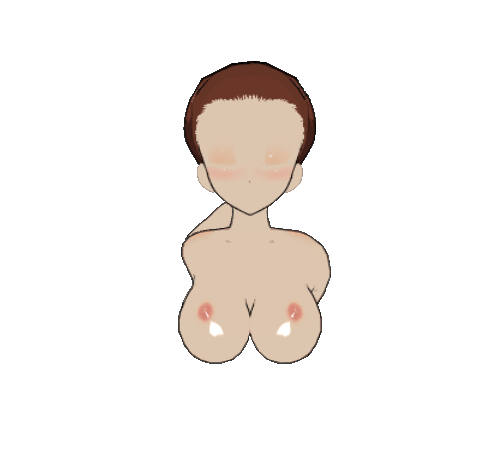
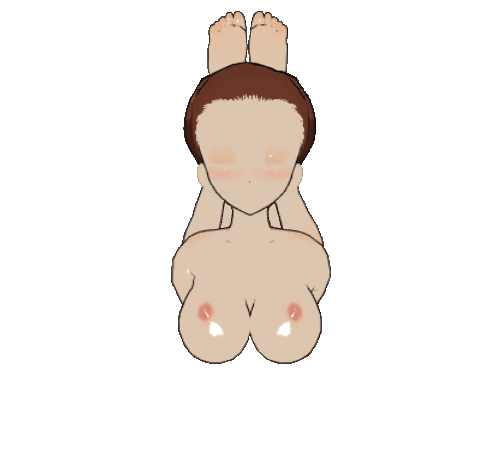
Hogtied Pose (Partial)
Hogtied Pose (Partial)

Changed region(s): [[0.39, 0.0, 0.6, 0.1818], [0.33, 0.3939, 0.45, 0.6667], [0.51, 0.3939, 0.66, 0.5455]]

diff --git a/BondageClub/Assets/Female3DCG/Female3DCG.js b/BondageClub/Assets/Female3DCG/Female3DCG.js
@@ -883,7 +883,7 @@ var AssetFemale3DCG = [
 		Category: "Item",
 		Priority: 18,
 		Default: false,
-		AllowPose: ["TapedHands", "BackBoxTie", "BackCuffs", "BackElbowTouch", "Yoked"],
+		AllowPose: ["TapedHands", "BackBoxTie", "BackCuffs", "BackElbowTouch", "Yoked", "Hogtied"],
 		Color: ["Default"],
 		Left: 125,
 		Top: 200,
@@ -1641,7 +1641,7 @@ var PoseFemale3DCG = [
 	},
 	{
 		Name: "Hogtied",
-		OverrideHeight: -550,
+		OverrideHeight: -575,
 		Hide: ["BodyLower", "Hands", "ClothLower", "Socks", "Shoes", "Wings", "TailStrap", "HairBack", "Gloves", "Panties", "Pussy", "ItemHands", "ItemPelvis", "ItemVulva", "ItemButt", "ItemLegs", "ItemFeet"]
 	}
 
